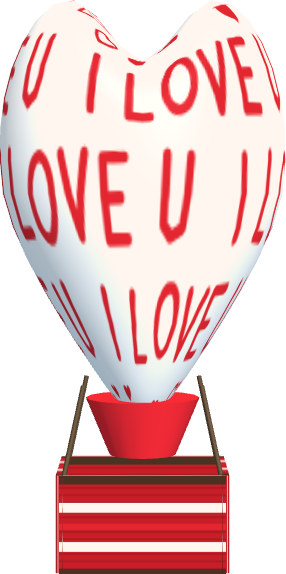
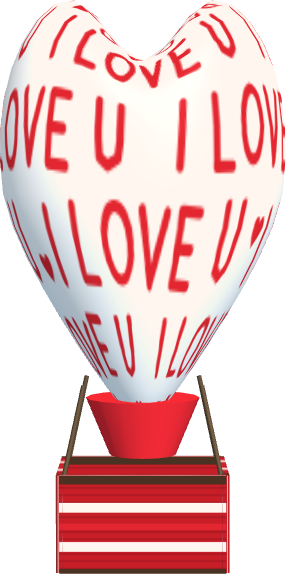
Heart balloon: four rows of I LOVE U
Claude-Session: https://claude.ai/code/session_01Qbw1KvHs2Rw8tGkzEo2hg4

diff --git a/games/shared/love-balloon.js b/games/shared/love-balloon.js
@@ -39,8 +39,8 @@ function paintLove(ctx, W, H, d, uv) {
   ctx.strokeStyle = b; ctx.fillStyle = b; ctx.lineCap = "round"; ctx.lineJoin = "round";
   const word = (x, y, h) => { ctx.lineWidth = h * 0.16; const e = loveWord(ctx, x, y, h, rnd); boxes.push([x - h * 0.1, y - h * 0.1, e + h * 0.1, y + h * 1.1]); return e; };
   if (uv) {
-    const h = H * 0.11;
-    [0.27, 0.45, 0.63].forEach((t, i) => { let x = (i % 2 ? 0.5 : 0) * loveWordW(h) - (i % 2 ? loveWordW(h) : 0); while (x < W) x = word(x, H * t, h) + h * 0.9; });
+    const h = H * 0.1;
+    [0.2, 0.36, 0.52, 0.68].forEach((t, i) => { let x = (i % 2 ? 0.5 : 0) * loveWordW(h) - (i % 2 ? loveWordW(h) : 0); while (x < W) x = word(x, H * t, h) + h * 0.9; });
   } else {
     // four rows, narrower and smaller down the heart, as in the drawing: [top, letter height, room] in the 100 x 120 box
     for (const [y, h, room] of [[6, 10, 78], [21, 10, 76], [36, 9.5, 66], [51, 8.5, 50], [65, 7, 32]]) {
